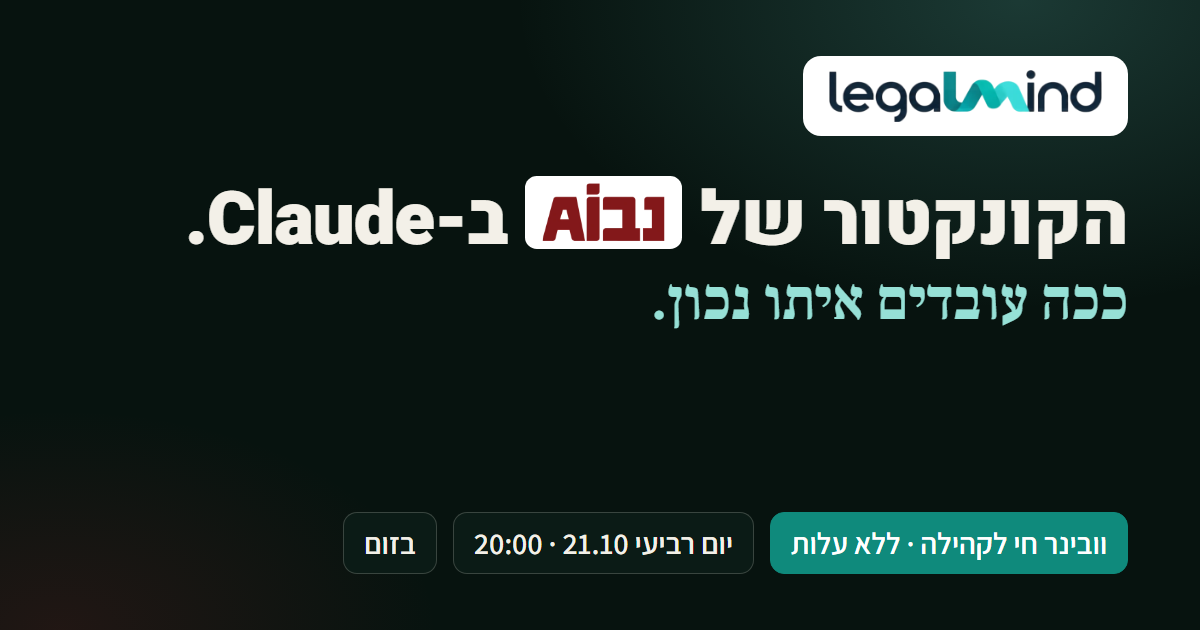
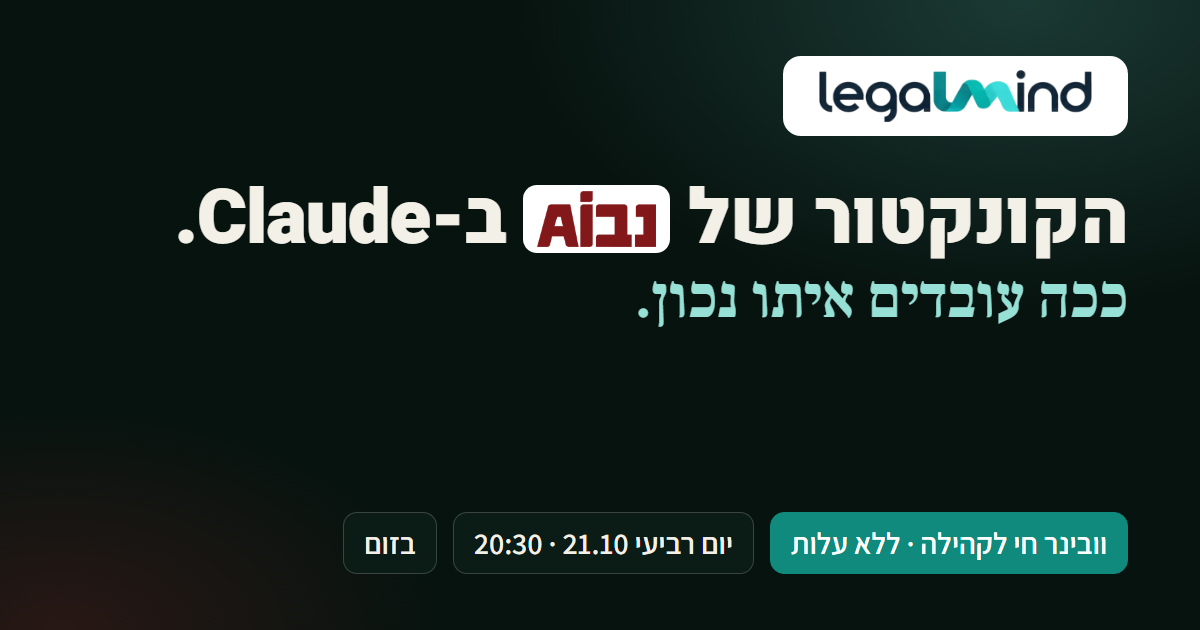
Community webinar share image: 20:30 (new file name so previews refresh)

diff --git a/nevo-connector-webinar/index.html b/nevo-connector-webinar/index.html
@@ -8,7 +8,7 @@
 <meta property="og:title" content="הקונקטור של נבו ב-Claude: ככה עובדים איתו נכון">
 <meta property="og:description" content="וובינר חי וללא עלות לקהילת LEGAL MIND · יום רביעי 21.10.2026 · בזום">
 <meta property="og:type" content="website">
-<meta property="og:image" content="https://www.legalmind.co.il/nevo-connector-webinar/assets/og.png">
+<meta property="og:image" content="https://www.legalmind.co.il/nevo-connector-webinar/assets/og-2030.png">
 <meta property="og:image:width" content="1200"><meta property="og:image:height" content="630">
 <meta name="twitter:card" content="summary_large_image">
 <meta name="theme-color" content="#07130F">
